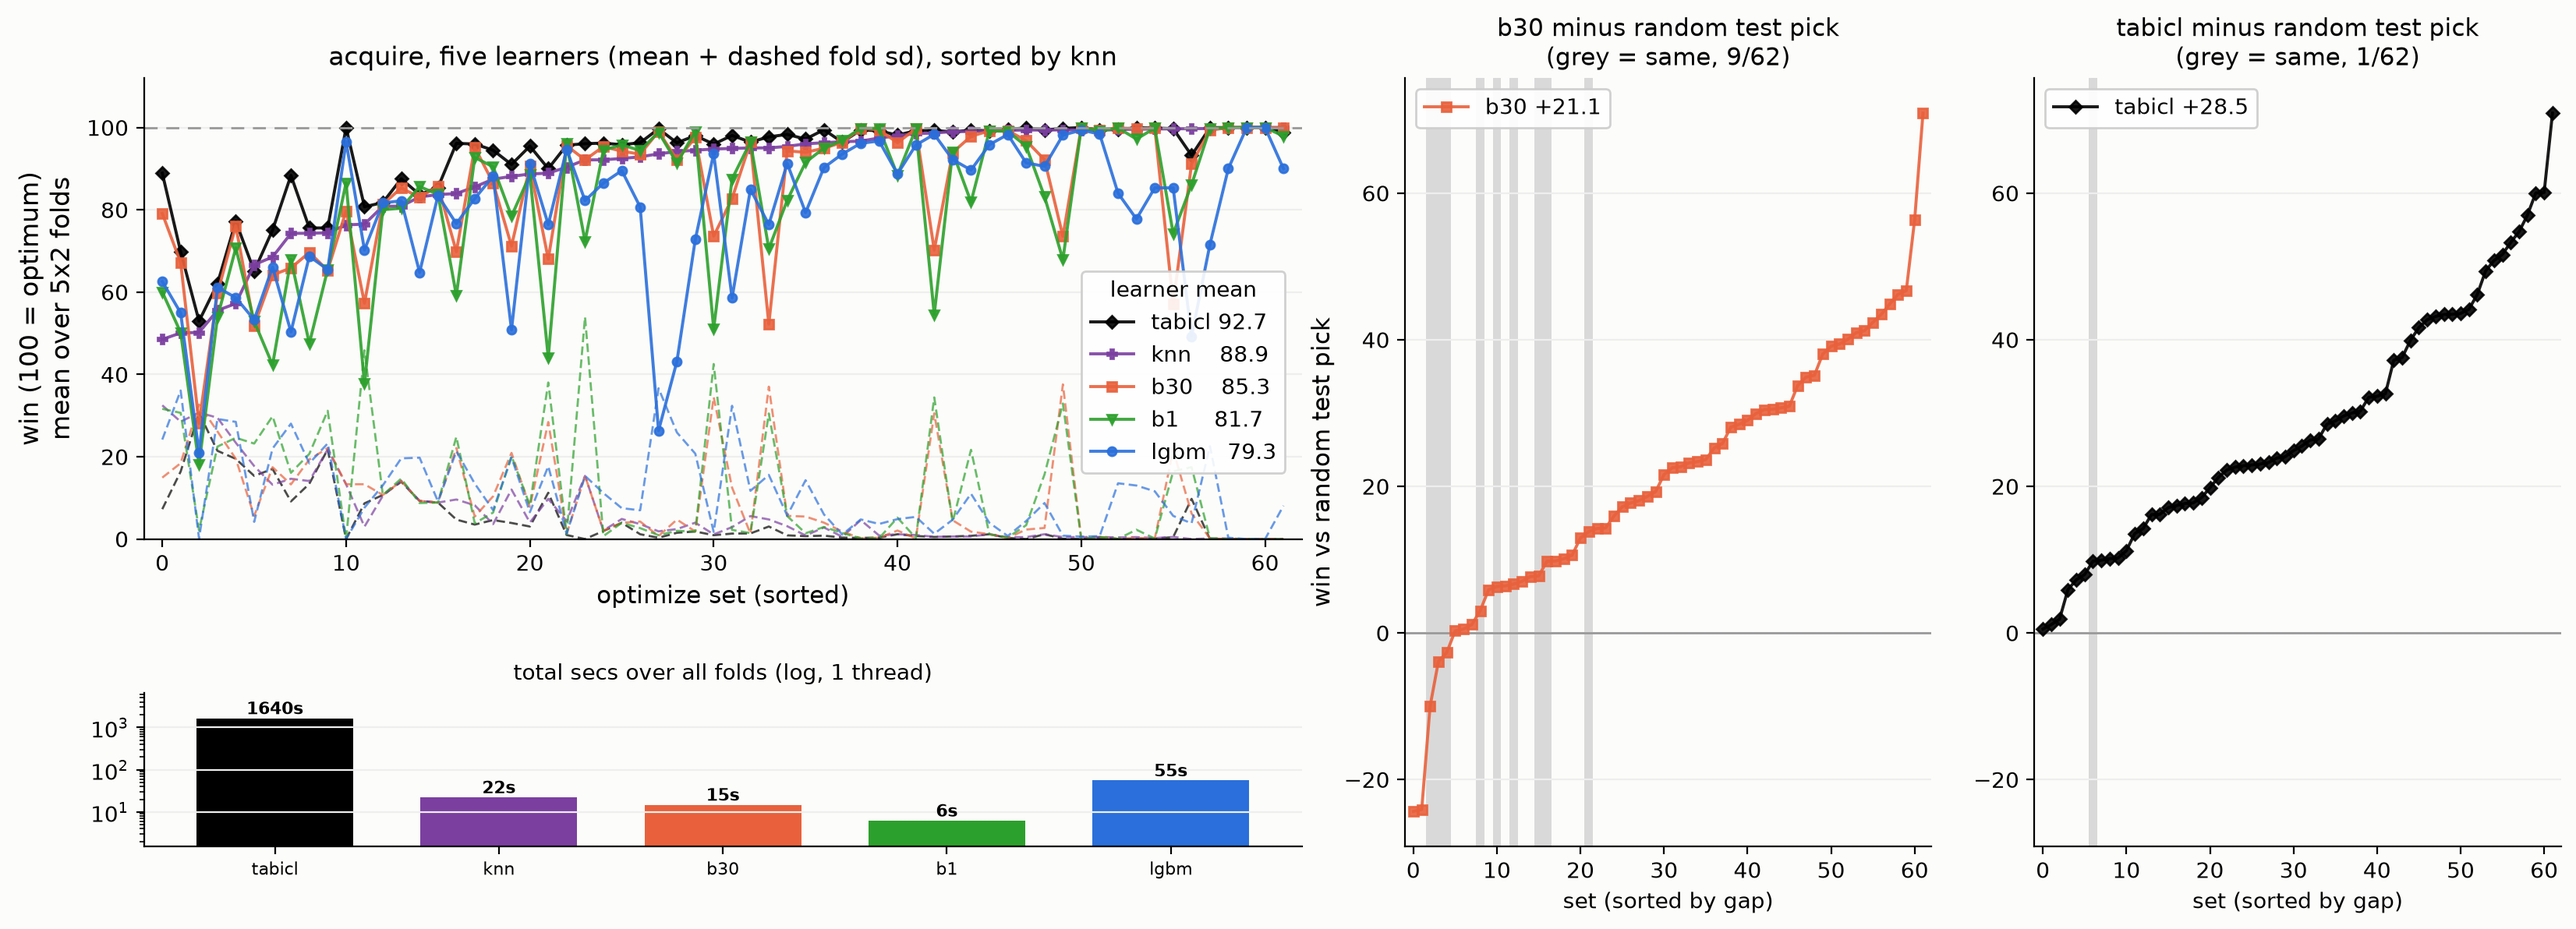
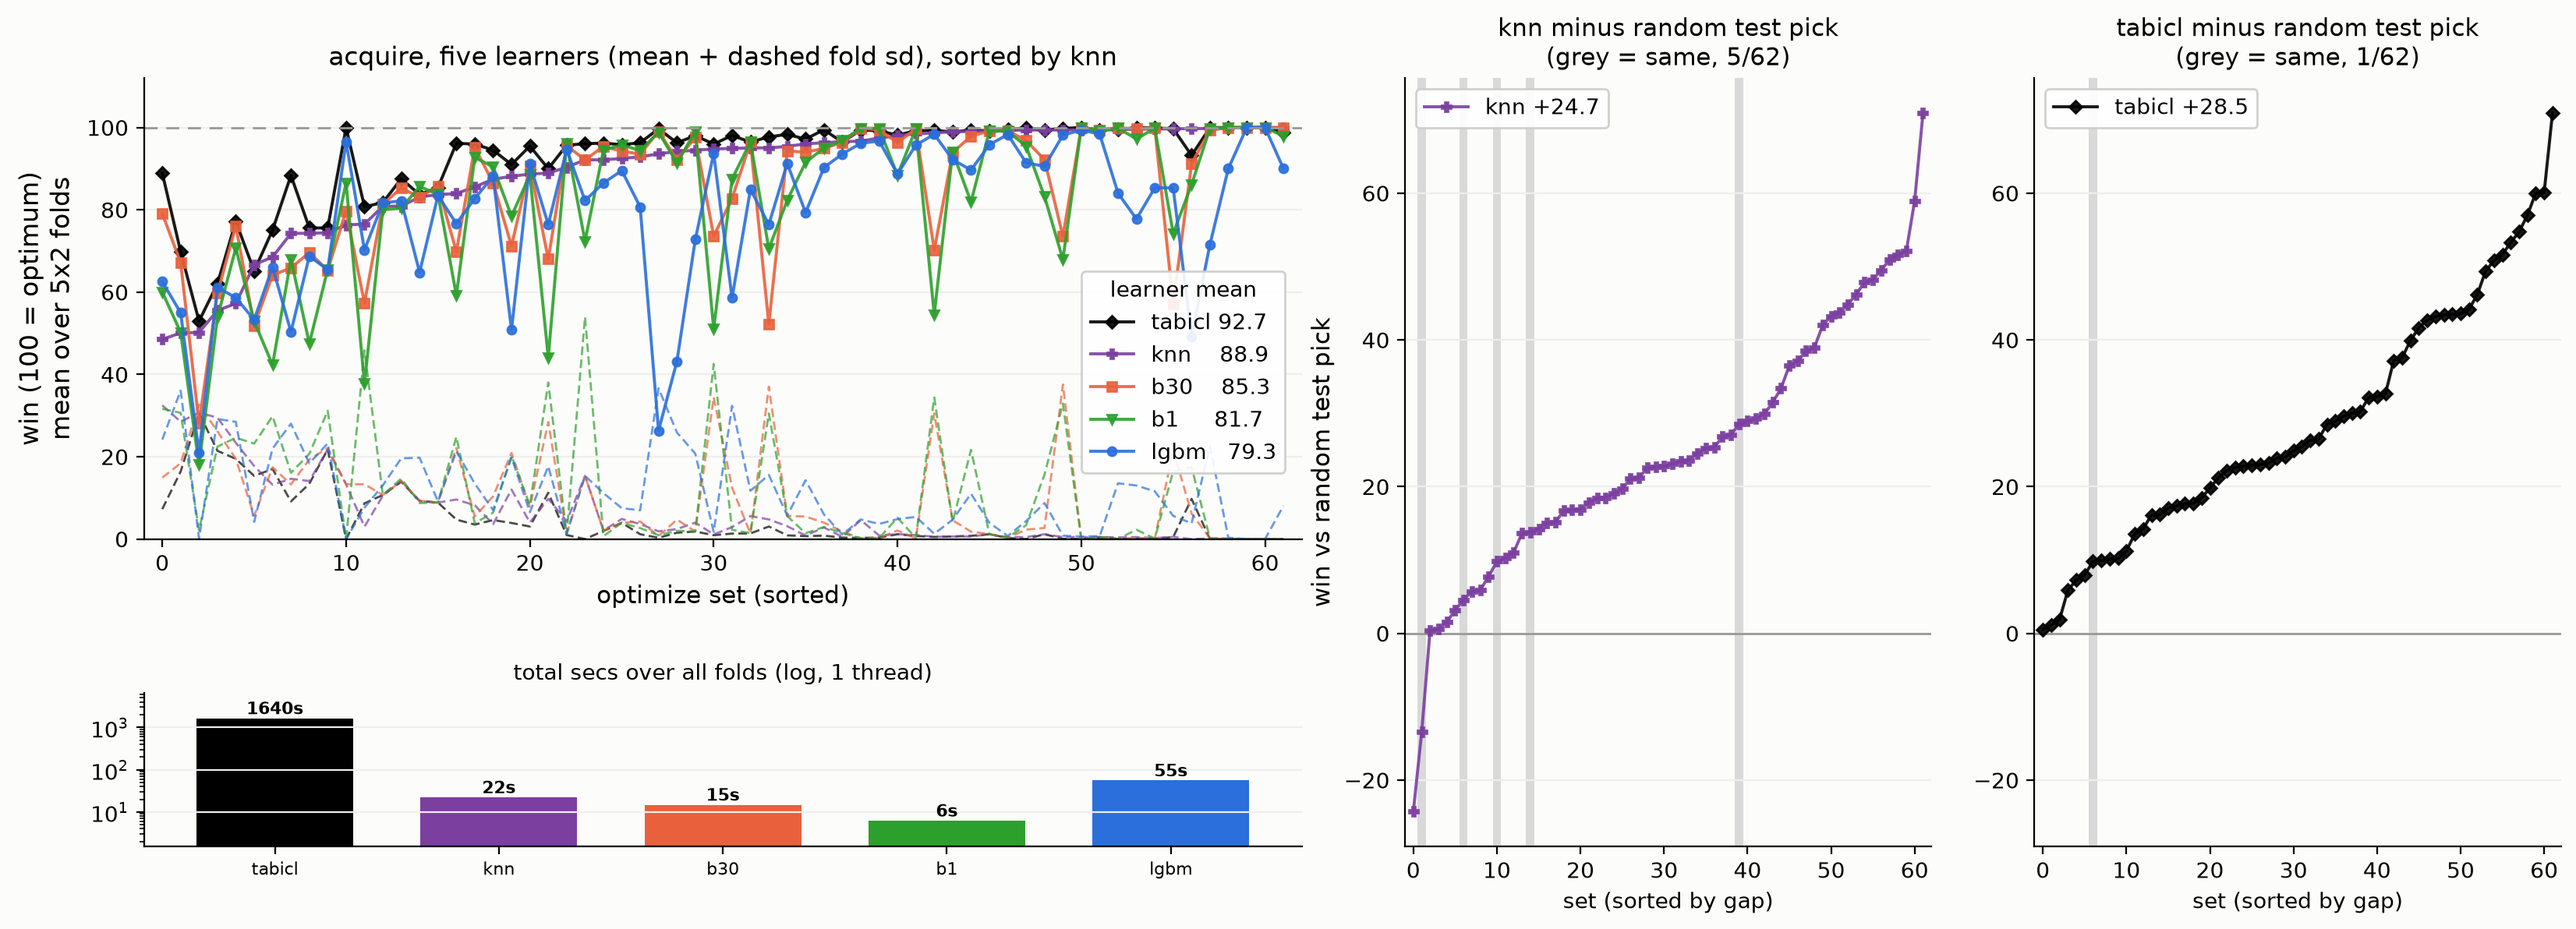
active figure: middle panel knn(3) minus random test pick

Changed region(s): [[0.53, 0.0621, 0.7482, 0.9312], [0.6547, 0.8691, 0.6858, 0.9002], [0.6547, 0.031, 0.6858, 0.0621]]

diff --git a/active_plot.py b/active_plot.py
@@ -130,7 +130,7 @@ def deltapanel(gsi, arm, c, m, lab):
   px.set_xlabel("set (sorted by gap)", fontsize=10)
   return px
 
-bx = deltapanel(gs[1], "a.b30",    "#e8613c", "s", "b30")
+bx = deltapanel(gs[1], "a.knn",    "#7b3fa0", "P", "knn")
 cx = deltapanel(gs[2], "a.tabicl", "#000000", "D", "tabicl")
 bx.set_ylabel("win vs random test pick", fontsize=11)
 ymin = min(bx.get_ylim()[0], cx.get_ylim()[0])     # share y across mid+right
